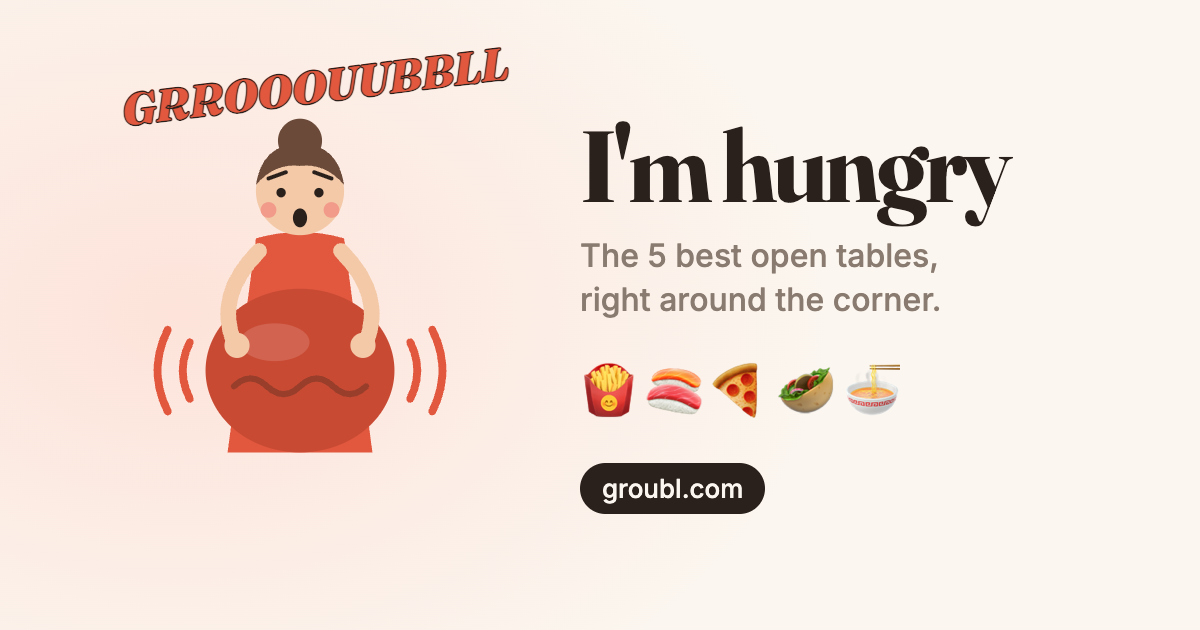
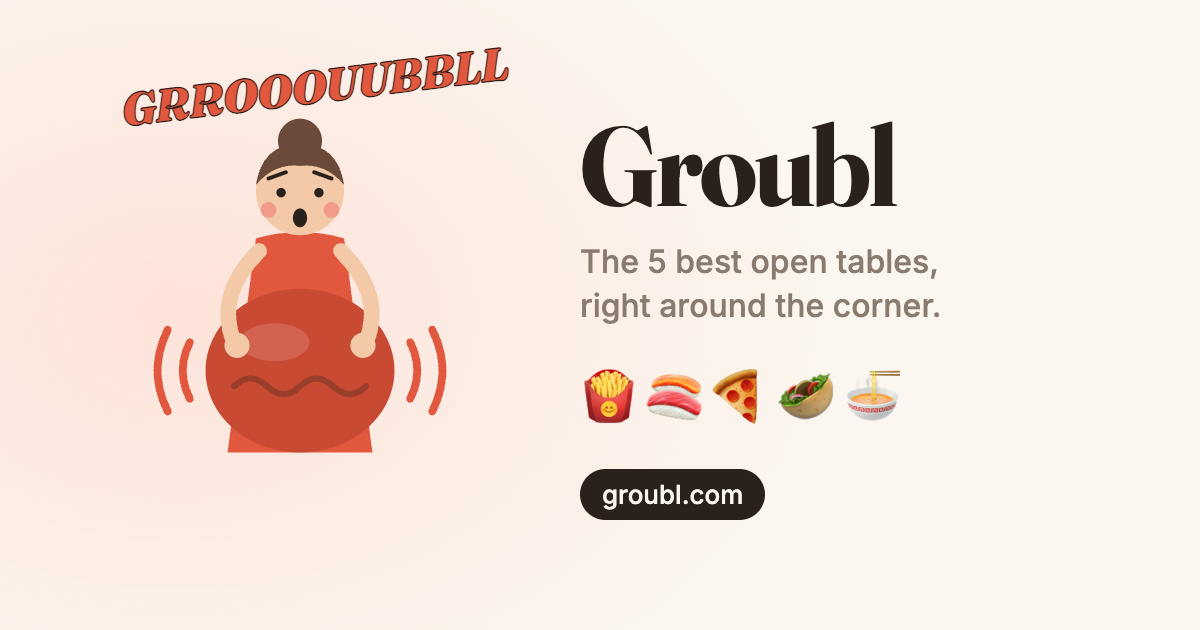
L'app s'appelle Groubl (site, app iOS, aperçus de lien, pages légales)
Même nom dans toutes les langues (c'est une marque) ; les accroches
restent traduites. Images d'aperçu régénérées, manifests, nom sous
l'icône iOS et message de permission de localisation mis à jour.
Identifiant de l'app et projet EAS inchangés.

diff --git a/public/privacy.html b/public/privacy.html
@@ -15,7 +15,7 @@
   </script>
   <meta charset="utf-8">
   <meta name="viewport" content="width=device-width, initial-scale=1">
-  <title>Confidentialité · J'ai faim</title>
+  <title>Confidentialité · Groubl</title>
   <link rel="icon" href="/icon.svg" type="image/svg+xml">
   <style>
     body { margin: 0; background: #fbf6ef; color: #2b211c; font: 16px/1.6 system-ui, sans-serif; }
@@ -30,13 +30,13 @@
 <body>
 <main>
   <h1>Politique de confidentialité</h1>
-  <p class="muted">J'ai faim (app iOS et site g-faim.vercel.app) · mise à jour le 24 octobre 2026</p>
+  <p class="muted">Groubl (app iOS et groubl.com) · mise à jour le 24 octobre 2026</p>
 
   <h2>En bref</h2>
-  <p>J'ai faim n'a pas de compte utilisateur, ne stocke aucune donnée personnelle et ne fait aucun suivi publicitaire ni statistique.</p>
+  <p>Groubl n'a pas de compte utilisateur, ne stocke aucune donnée personnelle et ne fait aucun suivi publicitaire ni statistique.</p>
 
   <h2>Ta position</h2>
-  <p>Avec ton accord, l'app lit ta position au moment où tu l'utilises, pour chercher les restaurants autour de toi. Cette position est envoyée à Google (Google Maps Platform) pour faire la recherche et afficher la carte. Elle n'est ni enregistrée ni transmise ailleurs par J'ai faim. Si tu refuses l'accès à la position, tu peux taper une adresse à la place ; sur iOS, elle est convertie en coordonnées par le service de géocodage d'Apple.</p>
+  <p>Avec ton accord, l'app lit ta position au moment où tu l'utilises, pour chercher les restaurants autour de toi. Cette position est envoyée à Google (Google Maps Platform) pour faire la recherche et afficher la carte. Elle n'est ni enregistrée ni transmise ailleurs par Groubl. Si tu refuses l'accès à la position, tu peux taper une adresse à la place ; sur iOS, elle est convertie en coordonnées par le service de géocodage d'Apple.</p>
 
   <h2>Services tiers</h2>
   <ul>
@@ -51,18 +51,18 @@
   <hr>
 
   <h1>Privacy Policy</h1>
-  <p class="muted">J'ai faim (iOS app and g-faim.vercel.app) · last updated October 24, 2026</p>
-  <p>J'ai faim has no user accounts, stores no personal data, and does no advertising or analytics tracking.</p>
-  <p><strong>Location.</strong> With your permission, the app reads your location while you use it to find nearby restaurants. It is sent to Google (Google Maps Platform) to run the search and display the map. J'ai faim does not store it or share it with anyone else. If you decline, you can type an address instead; on iOS it is geocoded by Apple.</p>
+  <p class="muted">Groubl (iOS app and groubl.com) · last updated October 24, 2026</p>
+  <p>Groubl has no user accounts, stores no personal data, and does no advertising or analytics tracking.</p>
+  <p><strong>Location.</strong> With your permission, the app reads your location while you use it to find nearby restaurants. It is sent to Google (Google Maps Platform) to run the search and display the map. Groubl does not store it or share it with anyone else. If you decline, you can type an address instead; on iOS it is geocoded by Apple.</p>
   <p><strong>Third parties.</strong> Google Maps Platform (map, search, photos), Apple (address geocoding on iOS), Vercel (website hosting, may keep technical logs). See their respective privacy policies linked above.</p>
   <p><strong>Contact.</strong> <a href="https://github.com/jphilippelingrand/g_faim/issues">github.com/jphilippelingrand/g_faim/issues</a></p>
 
   <hr>
 
   <h1>Política de privacidad</h1>
-  <p class="muted">J'ai faim (app iOS y g-faim.vercel.app) · actualizada el 24 de octubre de 2026</p>
-  <p>J'ai faim no tiene cuentas de usuario, no guarda ningún dato personal y no hace seguimiento publicitario ni estadístico.</p>
-  <p><strong>Ubicación.</strong> Con tu permiso, la app lee tu ubicación mientras la usas para buscar restaurantes cercanos. Se envía a Google (Google Maps Platform) para hacer la búsqueda y mostrar el mapa. J'ai faim no la guarda ni la comparte con nadie más. Si no das permiso, puedes escribir una dirección; en iOS, Apple la convierte en coordenadas.</p>
+  <p class="muted">Groubl (app iOS y groubl.com) · actualizada el 24 de octubre de 2026</p>
+  <p>Groubl no tiene cuentas de usuario, no guarda ningún dato personal y no hace seguimiento publicitario ni estadístico.</p>
+  <p><strong>Ubicación.</strong> Con tu permiso, la app lee tu ubicación mientras la usas para buscar restaurantes cercanos. Se envía a Google (Google Maps Platform) para hacer la búsqueda y mostrar el mapa. Groubl no la guarda ni la comparte con nadie más. Si no das permiso, puedes escribir una dirección; en iOS, Apple la convierte en coordenadas.</p>
   <p><strong>Terceros.</strong> Google Maps Platform (mapa, búsqueda, fotos), Apple (geocodificación de direcciones en iOS), Vercel (alojamiento del sitio, puede guardar registros técnicos). Consulta sus políticas de privacidad, enlazadas arriba.</p>
   <p><strong>Contacto.</strong> <a href="https://github.com/jphilippelingrand/g_faim/issues">github.com/jphilippelingrand/g_faim/issues</a></p>
 </main>

diff --git a/index.html b/index.html
@@ -3,20 +3,20 @@
   <head>
     <meta charset="utf-8" />
     <meta name="viewport" content="width=device-width, initial-scale=1" />
-    <title>J'ai faim</title>
+    <title>Groubl</title>
     <meta name="theme-color" content="#fbf6ef" />
     <meta name="description" content="Les 5 meilleures tables ouvertes, juste à côté." />
     <link rel="canonical" href="https://www.groubl.com/" />
     <!-- Aperçu du lien (Messenger, WhatsApp, iMessage, Slack…) : lu dans le HTML, sans JavaScript -->
     <meta property="og:type" content="website" />
-    <meta property="og:site_name" content="J'ai faim" />
+    <meta property="og:site_name" content="Groubl" />
     <meta property="og:url" content="https://www.groubl.com/" />
-    <meta property="og:title" content="J'ai faim" />
+    <meta property="og:title" content="Groubl" />
     <meta property="og:description" content="Les 5 meilleures tables ouvertes, juste à côté." />
     <meta property="og:image" content="https://www.groubl.com/og-image-fr.png" />
     <meta property="og:image:width" content="1200" />
     <meta property="og:image:height" content="630" />
-    <meta property="og:image:alt" content="La petite dame de J'ai faim, le ventre qui gargouille" />
+    <meta property="og:image:alt" content="La petite dame de Groubl, le ventre qui gargouille" />
     <meta property="og:locale" content="fr_FR" />
     <meta property="og:locale:alternate" content="en_US" />
     <meta property="og:locale:alternate" content="es_ES" />
@@ -27,7 +27,7 @@
     <link rel="apple-touch-icon" href="/apple-touch-icon.png" />
     <meta name="apple-mobile-web-app-capable" content="yes" />
     <meta name="mobile-web-app-capable" content="yes" />
-    <meta name="apple-mobile-web-app-title" content="J'ai faim" />
+    <meta name="apple-mobile-web-app-title" content="Groubl" />
     <meta name="apple-mobile-web-app-status-bar-style" content="default" />
     <!-- Ouvre tout de suite les connexions vers Google (polices, carte), avant que le code en ait besoin -->
     <link rel="preconnect" href="https://fonts.googleapis.com" />

diff --git a/public/support.html b/public/support.html
@@ -15,7 +15,7 @@
   </script>
   <meta charset="utf-8">
   <meta name="viewport" content="width=device-width, initial-scale=1">
-  <title>Support · J'ai faim</title>
+  <title>Support · Groubl</title>
   <link rel="icon" href="/icon.svg" type="image/svg+xml">
   <style>
     body { margin: 0; background: #fbf6ef; color: #2b211c; font: 16px/1.6 system-ui, sans-serif; }
@@ -30,11 +30,11 @@
 <body>
 <main>
   <h1>Support</h1>
-  <p class="muted">J'ai faim — les 5 meilleurs restos ouverts, juste à côté.</p>
+  <p class="muted">Groubl — les 5 meilleurs restos ouverts, juste à côté.</p>
   <h2>Un souci, une idée ?</h2>
   <p>Ouvre un ticket sur <a href="https://github.com/jphilippelingrand/g_faim/issues">github.com/jphilippelingrand/g_faim/issues</a>.</p>
   <h2>Questions fréquentes</h2>
-  <p><strong>L'app ne trouve pas ma position.</strong> Vérifie dans Réglages → Confidentialité → Service de localisation → J'ai faim que l'accès est autorisé « Lorsque l'app est active ». Sinon, tape ton adresse.</p>
+  <p><strong>L'app ne trouve pas ma position.</strong> Vérifie dans Réglages → Confidentialité → Service de localisation → Groubl que l'accès est autorisé « Lorsque l'app est active ». Sinon, tape ton adresse.</p>
   <p><strong>Il manque un resto.</strong> L'app n'affiche que les restaurants ouverts en ce moment, avec au moins 10 avis Google. Dézoome la carte pour chercher plus loin.</p>
   <p><a href="/privacy">Politique de confidentialité</a></p>
   <hr>

diff --git a/app/src/i18n.ts b/app/src/i18n.ts
@@ -22,7 +22,7 @@ const fr = {
   menu: "Menu",
   cuisineType: "Type de cuisine",
   localSpecialty: "Spécialité du coin",
-  appName: "J'ai faim",
+  appName: "Groubl",
   tagline: "Les 5 meilleures tables, juste à côté.",
   taglineSurprise: "5 tables au hasard, juste à côté.",
   locating: "Je te localise…",
@@ -60,7 +60,7 @@ const en: Dict = {
   menu: "Menu",
   cuisineType: "Type of cuisine",
   localSpecialty: "Local specialty",
-  appName: "I'm hungry",
+  appName: "Groubl",
   tagline: "The 5 best tables, right around the corner.",
   taglineSurprise: "5 random tables, right around the corner.",
   locating: "Finding you…",
@@ -96,7 +96,7 @@ const es: Dict = {
   menu: "Menú",
   cuisineType: "Tipo de cocina",
   localSpecialty: "Especialidad local",
-  appName: "Tengo hambre",
+  appName: "Groubl",
   tagline: "Las 5 mejores mesas, a la vuelta de la esquina.",
   taglineSurprise: "5 mesas al azar, a la vuelta de la esquina.",
   locating: "Te estoy buscando…",

diff --git a/src/i18n.ts b/src/i18n.ts
@@ -37,7 +37,7 @@ export function setLang(next: Lang) {
 }
 
 const fr = {
-  appName: "J'ai faim",
+  appName: "Groubl",
   tagline: "Les 5 meilleures tables, juste à côté.",
   taglineSurprise: "5 tables au hasard, juste à côté.",
   locating: "Je te localise…",
@@ -76,7 +76,7 @@ const fr = {
 type Dict = typeof fr;
 
 const en: Dict = {
-  appName: "I'm hungry",
+  appName: "Groubl",
   tagline: "The 5 best tables, right around the corner.",
   taglineSurprise: "5 random tables, right around the corner.",
   locating: "Finding you…",
@@ -113,7 +113,7 @@ const en: Dict = {
 };
 
 const es: Dict = {
-  appName: "Tengo hambre",
+  appName: "Groubl",
   tagline: "Las 5 mejores mesas, a la vuelta de la esquina.",
   taglineSurprise: "5 mesas al azar, a la vuelta de la esquina.",
   locating: "Te estoy buscando…",

diff --git a/app/app.config.ts b/app/app.config.ts
@@ -6,7 +6,7 @@ const GOOGLE_KEY = process.env.EXPO_PUBLIC_GOOGLE_MAPS_API_KEY;
 export const BUNDLE_ID = "com.jphilippelingrand.gfaim";
 
 const config: ExpoConfig = {
-  name: "J'ai faim",
+  name: "Groubl",
   slug: "g-faim",
   scheme: "gfaim",
   // Vient du tag git avec le workflow EAS (« v1.0.2 » → 1.0.2) ; sinon (build lancé à la main), cette valeur.
@@ -42,7 +42,7 @@ const config: ExpoConfig = {
     [
       "expo-location",
       {
-        locationWhenInUsePermission: "J'ai faim utilise ta position pour trouver les meilleurs restos ouverts autour de toi.",
+        locationWhenInUsePermission: "Groubl utilise ta position pour trouver les meilleurs restos ouverts autour de toi.",
       },
     ],
     ["react-native-maps", { iosGoogleMapsApiKey: GOOGLE_KEY, androidGoogleMapsApiKey: GOOGLE_KEY }],

diff --git a/README.md b/README.md
@@ -1,4 +1,4 @@
-# J'ai faim
+# Groubl
 
 Prototype React + Vite : à l'ouverture, l'app prend ta position et affiche sur une carte Google les 5 restaurants les mieux notés autour de toi.
 
